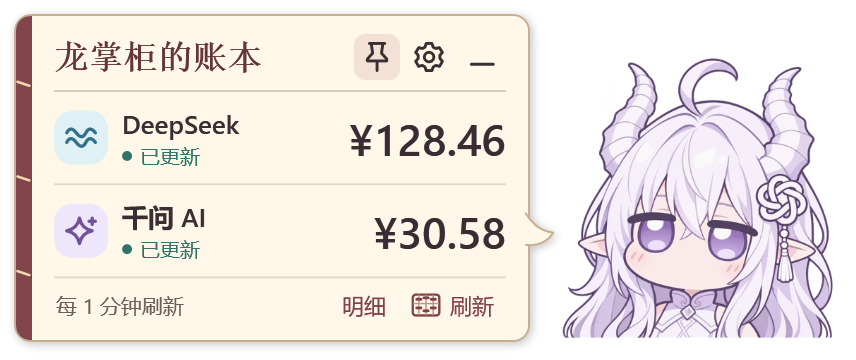
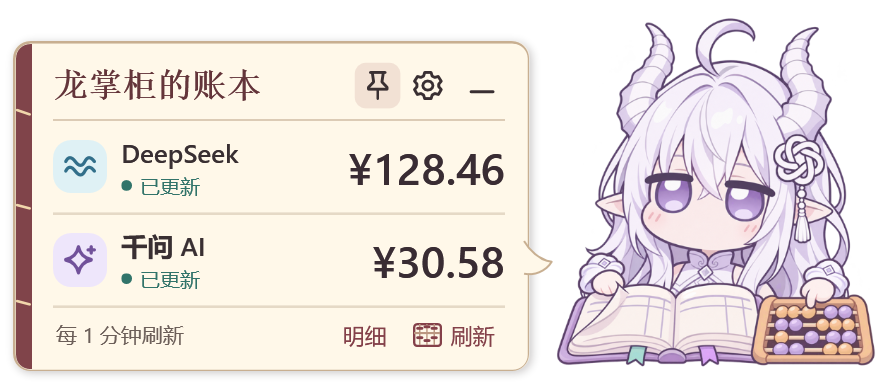
Give the chibi shopkeeper a ledger and abacus

Changed region(s): [[0.0, 0.0306, 1.0, 0.9778], [0.0607, 0.825, 0.2126, 0.8861]]

diff --git a/ui/Widget.xaml b/ui/Widget.xaml
@@ -1,59 +1,63 @@
 <Window xmlns="http://schemas.microsoft.com/winfx/2006/xaml/presentation" xmlns:x="http://schemas.microsoft.com/winfx/2006/xaml"
-        Title="龙掌柜的账本" Width="428" SizeToContent="Height" WindowStyle="None" ResizeMode="NoResize"
+        Title="龙掌柜的账本" Width="446" SizeToContent="Height" WindowStyle="None" ResizeMode="NoResize"
         AllowsTransparency="True" Background="Transparent" UseLayoutRounding="True" FontFamily="{StaticResource UiFont}">
-  <DockPanel Margin="7,7,7,9">
-    <Grid x:Name="MascotHit" DockPanel.Dock="Right" Width="144" Height="151" VerticalAlignment="Bottom"
+  <DockPanel Margin="7,7,7,9" UseLayoutRounding="True" SnapsToDevicePixels="True">
+    <Grid x:Name="MascotHit" DockPanel.Dock="Right" Width="162" Height="178" VerticalAlignment="Bottom"
           Margin="0,0,0,1" Cursor="Hand" ToolTip="点掌柜查余额，拖动可移动账本&#10;GPT 白龙娘形象参考 · ZipZipPipe" AutomationProperties.Name="GPT 龙娘掌柜">
       <Image x:Name="MascotImage" Stretch="Uniform" VerticalAlignment="Bottom" RenderOptions.BitmapScalingMode="HighQuality"
-             RenderTransformOrigin="0.5,0.92" AutomationProperties.Name="白发淡紫眼、戴结形发饰的龙娘掌柜"/>
+             RenderTransformOrigin="0.5,0.92" AutomationProperties.Name="龙娘掌柜一手翻账页，一手拨算盘"/>
     </Grid>
-    <Grid>
-      <Grid.Effect><DropShadowEffect Color="#4A3233" BlurRadius="7" ShadowDepth="2" Opacity="0.25"/></Grid.Effect>
-      <Border x:Name="Bubble" Margin="0,0,12,0" Background="{StaticResource BubblePaper}"
-              BorderBrush="{StaticResource BubbleLine}" BorderThickness="1" CornerRadius="8">
-        <DockPanel>
-          <Border x:Name="BookSpine" Width="8" DockPanel.Dock="Left" Background="#80444A" CornerRadius="7,0,0,7" IsHitTestVisible="False">
-            <UniformGrid Columns="1" Rows="3" Margin="0,10,0,10">
-              <Path Style="{StaticResource BookStitch}"/>
-              <Path Style="{StaticResource BookStitch}"/>
-              <Path Style="{StaticResource BookStitch}"/>
-            </UniformGrid>
-          </Border>
-          <StackPanel Margin="11,8,11,7">
-            <Grid Margin="0,0,0,4">
-              <Grid.ColumnDefinitions><ColumnDefinition/><ColumnDefinition Width="Auto"/></Grid.ColumnDefinitions>
-              <Border x:Name="DragZone" Background="Transparent" Cursor="SizeAll" ToolTip="拖动以移动账本">
-                <TextBlock Text="龙掌柜的账本" FontFamily="STZhongsong, SimSun, Microsoft YaHei UI" FontSize="17" FontWeight="Bold"
-                           VerticalAlignment="Center" Foreground="#64353A"/>
-              </Border>
-              <StackPanel Grid.Column="1" Orientation="Horizontal" VerticalAlignment="Center">
-                <Button x:Name="PinButton" Style="{StaticResource IconButton}" AutomationProperties.Name="切换置顶"><Path Data="{StaticResource Pin}" Style="{StaticResource Glyph}"/></Button>
-                <Button x:Name="Options" Style="{StaticResource IconButton}" ToolTip="账户与设置" AutomationProperties.Name="设置"><Path Data="{StaticResource Gear}" Style="{StaticResource Glyph}"/></Button>
-                <Button x:Name="ToTray" Style="{StaticResource IconButton}" ToolTip="收起到系统托盘" AutomationProperties.Name="收起到托盘"><Path Data="M2,8 L13,8" Stroke="{StaticResource Ink}" StrokeThickness="1.5" StrokeStartLineCap="Round" StrokeEndLineCap="Round"/></Button>
-              </StackPanel>
-            </Grid>
-            <Border Height="1" Background="{StaticResource Line}"/>
-            <StackPanel x:Name="Accounts"/>
-            <Grid Margin="1,3,0,0">
-              <Grid.ColumnDefinitions><ColumnDefinition/><ColumnDefinition Width="Auto"/><ColumnDefinition Width="Auto"/></Grid.ColumnDefinitions>
-              <TextBlock x:Name="Cadence" FontSize="10.5" Foreground="{StaticResource Muted}" VerticalAlignment="Center"/>
-              <Button x:Name="Details" Grid.Column="1" Style="{StaticResource TextAction}" AutomationProperties.Name="切换余额明细" Content="明细"/>
-              <Button x:Name="Refresh" Grid.Column="2" Style="{StaticResource TextAction}" AutomationProperties.Name="立即刷新" ToolTip="立即刷新两个账户">
-                <StackPanel Orientation="Horizontal">
-                  <Viewbox Width="16" Height="13" VerticalAlignment="Center">
-                    <Canvas Width="22" Height="18">
-                      <Rectangle Canvas.Left="1" Canvas.Top="1" Width="20" Height="16" RadiusX="2" RadiusY="2" Stroke="{StaticResource Accent}" StrokeThickness="1.6"/>
-                      <Path Data="M6,2 V16 M11,2 V16 M16,2 V16 M2,8 H20" Stroke="#BB9781" StrokeThickness="1"/>
-                      <Path Data="M4.5,5 H7.5 M9.5,4 H12.5 M14.5,5 H17.5 M4.5,11 H7.5 M9.5,13 H12.5 M14.5,11 H17.5"
-                            Stroke="{StaticResource Accent}" StrokeThickness="2" StrokeStartLineCap="Round" StrokeEndLineCap="Round"/>
-                    </Canvas>
-                  </Viewbox>
-                  <TextBlock Text="刷新" Margin="4,0,0,0"/></StackPanel>
-              </Button>
-            </Grid>
-          </StackPanel>
-        </DockPanel>
-      </Border>
+    <Grid VerticalAlignment="Bottom">
+      <Grid x:Name="Bubble" Margin="0,0,12,0">
+        <Border Background="{StaticResource BubblePaper}" CornerRadius="8" IsHitTestVisible="False">
+          <Border.Effect><DropShadowEffect Color="#4A3233" BlurRadius="7" ShadowDepth="2" Opacity="0.25"/></Border.Effect>
+        </Border>
+        <Border Background="{StaticResource BubblePaper}"
+                BorderBrush="{StaticResource BubbleLine}" BorderThickness="1" CornerRadius="8">
+          <DockPanel>
+            <Border x:Name="BookSpine" Width="8" DockPanel.Dock="Left" Background="#80444A" CornerRadius="7,0,0,7" IsHitTestVisible="False">
+              <UniformGrid Columns="1" Rows="3" Margin="0,10,0,10">
+                <Path Style="{StaticResource BookStitch}"/>
+                <Path Style="{StaticResource BookStitch}"/>
+                <Path Style="{StaticResource BookStitch}"/>
+              </UniformGrid>
+            </Border>
+            <StackPanel Margin="11,8,11,7">
+              <Grid Margin="0,0,0,4">
+                <Grid.ColumnDefinitions><ColumnDefinition/><ColumnDefinition Width="Auto"/></Grid.ColumnDefinitions>
+                <Border x:Name="DragZone" Background="Transparent" Cursor="SizeAll" ToolTip="拖动以移动账本">
+                  <TextBlock Text="龙掌柜的账本" FontFamily="STZhongsong, SimSun, Microsoft YaHei UI" FontSize="17" FontWeight="Bold"
+                             VerticalAlignment="Center" Foreground="#64353A"/>
+                </Border>
+                <StackPanel Grid.Column="1" Orientation="Horizontal" VerticalAlignment="Center">
+                  <Button x:Name="PinButton" Style="{StaticResource IconButton}" AutomationProperties.Name="切换置顶"><Path Data="{StaticResource Pin}" Style="{StaticResource Glyph}"/></Button>
+                  <Button x:Name="Options" Style="{StaticResource IconButton}" ToolTip="账户与设置" AutomationProperties.Name="设置"><Path Data="{StaticResource Gear}" Style="{StaticResource Glyph}"/></Button>
+                  <Button x:Name="ToTray" Style="{StaticResource IconButton}" ToolTip="收起到系统托盘" AutomationProperties.Name="收起到托盘"><Path Data="M2,8 L13,8" Stroke="{StaticResource Ink}" StrokeThickness="1.5" StrokeStartLineCap="Round" StrokeEndLineCap="Round"/></Button>
+                </StackPanel>
+              </Grid>
+              <Border Height="1" Background="{StaticResource Line}"/>
+              <StackPanel x:Name="Accounts"/>
+              <Grid Margin="1,3,0,0">
+                <Grid.ColumnDefinitions><ColumnDefinition/><ColumnDefinition Width="Auto"/><ColumnDefinition Width="Auto"/></Grid.ColumnDefinitions>
+                <TextBlock x:Name="Cadence" FontSize="10.5" Foreground="{StaticResource Muted}" VerticalAlignment="Center"/>
+                <Button x:Name="Details" Grid.Column="1" Style="{StaticResource TextAction}" AutomationProperties.Name="切换余额明细" Content="明细"/>
+                <Button x:Name="Refresh" Grid.Column="2" Style="{StaticResource TextAction}" AutomationProperties.Name="立即刷新" ToolTip="立即刷新两个账户">
+                  <StackPanel Orientation="Horizontal">
+                    <Viewbox Width="16" Height="13" VerticalAlignment="Center">
+                      <Canvas Width="22" Height="18">
+                        <Rectangle Canvas.Left="1" Canvas.Top="1" Width="20" Height="16" RadiusX="2" RadiusY="2" Stroke="{StaticResource Accent}" StrokeThickness="1.6"/>
+                        <Path Data="M6,2 V16 M11,2 V16 M16,2 V16 M2,8 H20" Stroke="#BB9781" StrokeThickness="1"/>
+                        <Path Data="M4.5,5 H7.5 M9.5,4 H12.5 M14.5,5 H17.5 M4.5,11 H7.5 M9.5,13 H12.5 M14.5,11 H17.5"
+                              Stroke="{StaticResource Accent}" StrokeThickness="2" StrokeStartLineCap="Round" StrokeEndLineCap="Round"/>
+                      </Canvas>
+                    </Viewbox>
+                    <TextBlock Text="刷新" Margin="4,0,0,0"/></StackPanel>
+                </Button>
+              </Grid>
+            </StackPanel>
+          </DockPanel>
+        </Border>
+      </Grid>
       <Path x:Name="Tail" Data="M0,0 C3,5 7,9 14,10 C11,15 5,17 0,16" Fill="{StaticResource BubblePaper}" Stroke="{StaticResource BubbleLine}"
             StrokeThickness="1" StrokeLineJoin="Round" Stretch="None" HorizontalAlignment="Right" VerticalAlignment="Bottom" Margin="0,0,0,48"
             RenderTransformOrigin="0.5,0.5" IsHitTestVisible="False"/>

diff --git a/src/Views.cs b/src/Views.cs
@@ -29,7 +29,7 @@ namespace BalanceWatcher
         public static Window LoadWidget()
         {
             var window = Load<Window>("Widget");
-            using (var source = Assembly.GetExecutingAssembly().GetManifestResourceStream("shopkeeper.png"))
+            using (var source = Assembly.GetExecutingAssembly().GetManifestResourceStream("shopkeeper-ledger.png"))
             {
                 var mascot = BitmapFrame.Create(source, BitmapCreateOptions.None, BitmapCacheOption.OnLoad);
                 mascot.Freeze();
@@ -97,7 +97,7 @@ namespace BalanceWatcher
             var spine = window.Part<Border>("BookSpine");
             DockPanel.SetDock(spine, onLeft ? Dock.Right : Dock.Left);
             spine.CornerRadius = onLeft ? new CornerRadius(0, 7, 7, 0) : new CornerRadius(7, 0, 0, 7);
-            window.Part<Border>("Bubble").Margin = onLeft ? new Thickness(12, 0, 0, 0) : new Thickness(0, 0, 12, 0);
+            window.Part<Grid>("Bubble").Margin = onLeft ? new Thickness(12, 0, 0, 0) : new Thickness(0, 0, 12, 0);
             var tail = window.Part<System.Windows.Shapes.Path>("Tail");
             tail.HorizontalAlignment = onLeft ? HorizontalAlignment.Left : HorizontalAlignment.Right;
             tail.RenderTransform = new ScaleTransform(onLeft ? -1 : 1, 1);

diff --git a/src/Program.cs b/src/Program.cs
@@ -7,7 +7,7 @@ using System.Windows;
 [assembly: AssemblyTitle("余额看板")]
 [assembly: AssemblyDescription("龙掌柜的账本 · DeepSeek 与千问 AI 桌面余额挂件")]
 [assembly: AssemblyProduct("余额看板")]
-[assembly: AssemblyVersion("1.2.1.0")]
+[assembly: AssemblyVersion("1.2.2.0")]
 
 namespace BalanceWatcher
 {

diff --git a/WINDOWS.md b/WINDOWS.md
@@ -1,6 +1,6 @@
 # 龙掌柜的账本 · Windows 桌面版
 
-适用于 Windows 10 / 11 x64，需 .NET Framework 4.8。将下载的程序放在固定目录，双击即可在桌面打开龙掌柜的账房。千问官方组件随程序提供。[下载 Windows x64 桌面版](https://github.com/Darkericy/DeepSeek-Balance-Whale-Widget/releases/download/windows-v1.2.1/DragonLedger-Windows-x64.exe)
+适用于 Windows 10 / 11 x64，需 .NET Framework 4.8。将下载的程序放在固定目录，双击即可在桌面打开龙掌柜的账房。千问官方组件随程序提供。[下载 Windows x64 桌面版](https://github.com/Darkericy/DeepSeek-Balance-Whale-Widget/releases/download/windows-v1.2.2/DragonLedger-Windows-x64.exe)
 
 ## 首次连接
 
@@ -28,4 +28,4 @@ DeepSeek 密钥由 Windows DPAPI 按当前用户加密，随设置保存在 `%LO
 
 本版将 MeteorNOX 挂件的气泡、贴边翻转与按压回弹移植到 WPF，并接入两个充值平台。[原项目](https://github.com/MeteorNOX/DeepSeek-Balance-Whale-Widget)
 
-掌柜头像参考 ZipZipPipe 的 GPT 白龙娘立绘及小比例版本，保留分节白角、卷起的呆毛、淡紫眼和侧边结饰。上胸裁切、无嘴表情和淡紫粗描边参考 T7moris 公开的制作说明。桌面版用 ImageGen 重绘，DSH 用户也可在插件的自定义角色中导入透明图。[作者三视图](https://www.bilibili.com/opus/1238613841710940181) · [半身头像生成说明](https://github.com/T7moris/GPT-Niang/blob/main/gpt-niang-usage/assets/%E7%94%9F%E6%88%90%E8%AF%B4%E6%98%8E.md) · [素材来源与使用条件](PROVENANCE.md) · [掌柜角色 PNG](ui/shopkeeper.png)
+掌柜头像参考 ZipZipPipe 的 GPT 白龙娘立绘及小比例版本。半身比例、无嘴表情和淡紫粗描边参考 T7moris 公开的制作说明。Q 版账簿、袖口小手和算盘另行绘制，再与头像合成。DSH 用户可以在自定义角色中导入带道具的透明图。[作者三视图](https://www.bilibili.com/opus/1238613841710940181) · [半身头像生成说明](https://github.com/T7moris/GPT-Niang/blob/main/gpt-niang-usage/assets/%E7%94%9F%E6%88%90%E8%AF%B4%E6%98%8E.md) · [素材来源与使用条件](PROVENANCE.md) · [掌柜与账本 PNG](ui/shopkeeper-ledger.png)

diff --git a/README.md b/README.md
@@ -1,10 +1,10 @@
 # 龙掌柜的账本
 
-银发的 GPT 龙娘当上了账房老板娘。她守着一本线装账簿，DeepSeek 和千问 AI 各占一行。点掌柜或账页上的小算盘可刷新余额，点 **明细** 可查看充值、赠金和更新时间。
+银发的 GPT 龙娘当上了账房老板娘。她一手翻开带双色书签的小账簿，一手拨算盘。旁边的线装账本把 DeepSeek 和千问 AI 的余额分行列出。点掌柜或账页上的小算盘可刷新余额，点 **明细** 可查看充值、赠金和更新时间。
 
-<img src="ui/windows-preview.png" width="428" alt="淡紫眼的 Q 版白龙掌柜守在账本旁，账页分行列出 DeepSeek 与千问 AI 的示例余额"/>
+<img src="ui/windows-preview.png" width="446" alt="Q 版白龙掌柜翻着小账簿、拨动算珠，旁边是 DeepSeek 与千问 AI 的示例余额"/>
 
-[下载 Windows x64 桌面版](https://github.com/Darkericy/DeepSeek-Balance-Whale-Widget/releases/download/windows-v1.2.1/DragonLedger-Windows-x64.exe) · [账户连接、登录自启与源码构建](WINDOWS.md) · [GPT 龙娘形象参考 · ZipZipPipe](https://www.bilibili.com/opus/1238613841710940181)
+[下载 Windows x64 桌面版](https://github.com/Darkericy/DeepSeek-Balance-Whale-Widget/releases/download/windows-v1.2.2/DragonLedger-Windows-x64.exe) · [账户连接、登录自启与源码构建](WINDOWS.md) · [GPT 龙娘形象参考 · ZipZipPipe](https://www.bilibili.com/opus/1238613841710940181)
 
 ## DSH 小鲸鱼记账挂件（DeepSeek Balance Whale Widget）
 

diff --git a/PROVENANCE.md b/PROVENANCE.md
@@ -41,3 +41,5 @@
 GPT 白龙娘形象参考 ZipZipPipe。原作者在画集说明中要求标注作者、不可商用，使用本版掌柜的同人形象时也请保留署名并限非商业用途。[作者三视图](https://www.bilibili.com/opus/1238613841710940181) · [ZipZipPipe 原画集与取用说明](https://www.pixiv.net/artworks/148186519)
 
 Windows v1.2.1 的头像由 ImageGen 对照 ZipZipPipe 原画集第四幅和作者的小比例龙娘重绘。头部朝向参照 DSH 挂件，半垂眼、无嘴表情和上胸裁切参考 T7moris 的制作说明。`ui/shopkeeper.png` 是本版角色透明图，`ui/shopkeeper.ico` 取自其头像。`ui/windows-preview.png` 由应用使用示例余额渲染。[作者的小比例版本](https://www.bilibili.com/video/BV1tE9XBbErS/?t=23) · [T7moris 的头像制作说明](https://github.com/T7moris/GPT-Niang/blob/main/gpt-niang-usage/assets/%E7%94%9F%E6%88%90%E8%AF%B4%E6%98%8E.md)
+
+Windows v1.2.2 的 `ui/shopkeeper-ledger.png` 使用同一张头像。带双色书签的小账簿、算盘和两只翻账拨珠的小手由 ImageGen 单独绘制，再叠放在头像下方。
